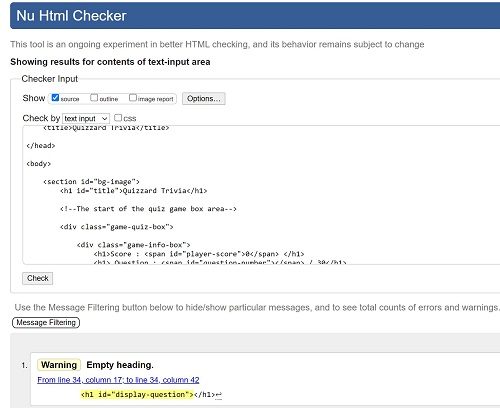
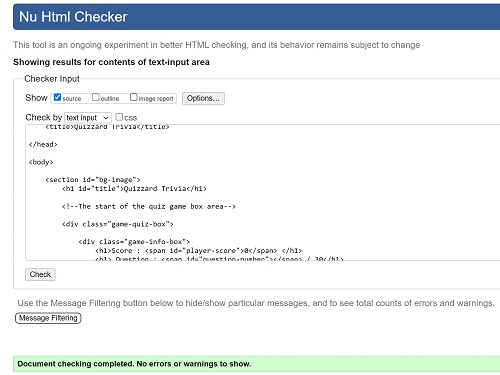
fixed all the 1 warning that I had on my qiz.html so I had to amend and update the images and paragraph on my read me file

Changed region(s): [[0.0, 0.0, 1.0, 0.9973]]

diff --git a/README.md b/README.md
@@ -192,10 +192,10 @@ The W3C Markup Validator and W3C CSS Validator Services were used to validate ev
   [View Error](assets/images/error.jpg)
 
 * **Warnings**
-  * I recified the 13 warning by deleting the webkit extentions as they were not needed and I had to delete the imported Google fonts link for the warning on the CSS file to disappear.
+  * I recified the 13 warning by deleting the webkit extentions as they were not needed.
   [View Warning](assets/images/CSS-warning.JPG)
 
-After recitying all the errors on my HTML page they are now free from any errors. The single warning of the empty heading on my quiz.html page can not be rectified as I needed the heading so that I can create an id class for my Java Script.
+After recitying all the errors on my HTML page they are now free from any errors. The single warning of the empty heading on my quiz.html page was also rectified by changing the H1 Heading to a paragraph heading.
 [View Warning](assets/images/warning.JPG)
 
 
@@ -208,7 +208,7 @@ The Java Script has also passed the JShint web link with no errors. Only 6 warni
   [W3C CSS Validator Results ](https://jigsaw.w3.org/css-validator/validator?uri=https%3A%2F%2Fjoycey83.github.io%2FQuizzard-Trivia%2F&profile=css3svg&usermedium=all&warning=1&vextwarning=&lang=en)
 
 + ## HTML
-  * No more errors were found when passing all the HTML codes through the W3C Markup Validator. Only 1 warning was found on both of the HTML pages.
+  * No more errors or warnings were found when passing all the HTML codes through the W3C Markup Validator.
   + [W3C Markup Validator index.html Results ](assets/images/validator-index.JPG)
   + [W3C Markup Validator quiz.html Results ](assets/images/validator-quiz.JPG)
 
